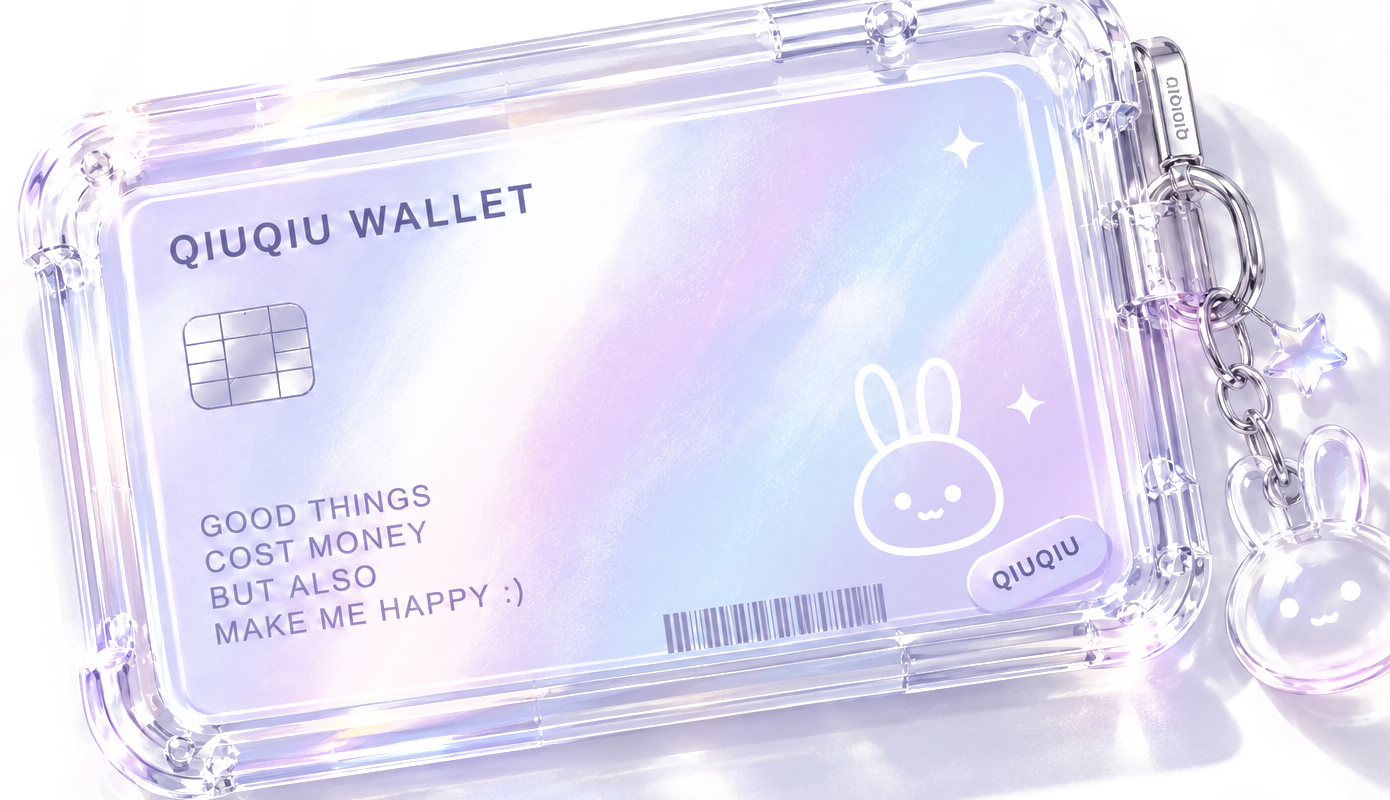
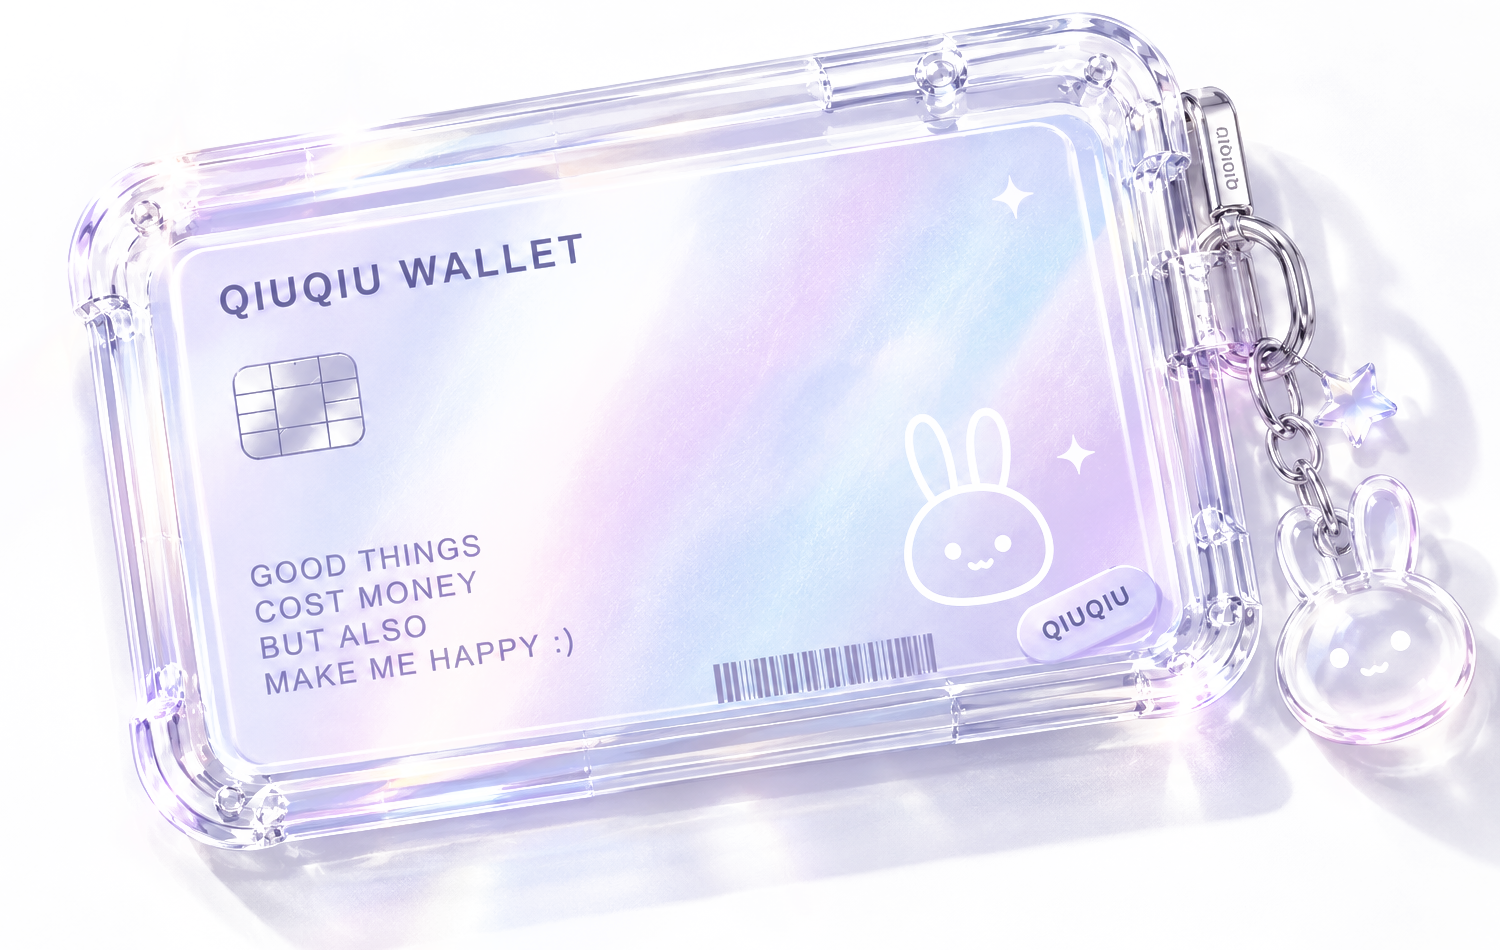
v74.255 记账卡套素材重抠：整块边框和影子都保留
Claude-Session: https://claude.ai/code/session_015zt3JkZdq61T2ShKzLDYS3

diff --git a/index.html b/index.html
@@ -9,7 +9,7 @@
 <meta name="theme-color" content="#ece8e1" />
 <script>document.documentElement.classList.add("fonts-pending");</script>
 <link rel="apple-touch-icon" href="icon-192.png?v=61.52" />
-<link rel="manifest" href="manifest.json?v=74.254" />
+<link rel="manifest" href="manifest.json?v=74.255" />
 <title>ARCHIVE</title>
 <!-- ══ 白屏守卫（v68.99，她 2026-09-16 转来两条：「开屏以后是白屏」「加入到了主屏幕，
      现在没法刷新，抓心挠肝」）══════════════════════════════════════════════
@@ -95,7 +95,7 @@
 <!-- 核心库自托管在仓库 vendor/（不再依赖 CDN，防国内访问 unpkg 抽风时整站白屏） -->
 <script src="vendor/react.production.min.js"></script>
 <script src="vendor/react-dom.production.min.js"></script>
-<script src="vendor/tailwind.js?v=74.254"></script>
+<script src="vendor/tailwind.js?v=74.255"></script>
 <link rel="stylesheet" href="vendor/leaflet.css" />
 <style>
   html, body, #root { height: 100vh; margin: 0; padding: 0; overscroll-behavior: none; background: #ece8e1; }
@@ -380,10 +380,10 @@
 <script src="vendor/supabase.js"></script>
 <script src="js/character-pronoun.js?v=74.220"></script>
 <script src="js/back-guard.js?v=68.29"></script>
-<script src="js/core.js?v=74.254"></script>
+<script src="js/core.js?v=74.255"></script>
 <script src="js/auto-refresh-policy.js?v=62.45"></script>
 <script src="js/auto-gate.js?v=65.03"></script>
-<script src="js/style-presets.js?v=74.254"></script>
+<script src="js/style-presets.js?v=74.255"></script>
 <script src="js/content-boundaries.js?v=65.05"></script>
 <script src="js/world-weather.js?v=65.08"></script>
 <script src="js/reply-pacing.js?v=74.063"></script>
@@ -399,18 +399,18 @@
 <script src="js/offline-continuation.js?v=65.05"></script>
 <script src="js/yanqiu-continuity.js?v=50.20"></script>
 <script src="js/recall-cooling.js?v=2"></script>
-<script src="js/engine.js?v=74.254"></script>
+<script src="js/engine.js?v=74.255"></script>
 <script src="js/credential-vault.js?v=52.41"></script>
 <script src="js/background-generation.js?v=53.78"></script>
-<script src="js/cloud.js?v=74.254"></script>
+<script src="js/cloud.js?v=74.255"></script>
 <script src="js/rescue-console.js?v=53.60"></script>
-<script src="js/vps-codex.js?v=74.254"></script>
+<script src="js/vps-codex.js?v=74.255"></script>
 <script src="js/lounge-entry.js?v=54.42"></script>
 <script src="js/chat-ledger-shadow.js?v=74.065"></script>
 <script src="js/cc-lane.js?v=74.048"></script>
 <script src="js/cc-memory-auto.js?v=51.57"></script>
 <script src="js/reroll-branch.js?v=73.24"></script>
-<script src="js/inner-life-e-tidal-core.js?v=74.254"></script>
+<script src="js/inner-life-e-tidal-core.js?v=74.255"></script>
 <script src="js/inner-life-e-afterglow-shadow.js?v=61.51"></script>
 <script src="js/inner-life-e-tidal-shadow.js?v=51.56"></script>
 <script src="js/recall-shadow.js?v=51.04"></script>
@@ -423,31 +423,31 @@
 <script src="js/context-budget-shadow.js?v=51.52"></script>
 <script src="js/message-branch-shadow.js?v=51.00"></script>
 <script src="js/insight-candidate-shadow.js?v=50.98"></script>
-<script src="js/memory-v2-shadow.js?v=74.254"></script>
-<script src="js/somatic-review-core.js?v=74.254"></script>
+<script src="js/memory-v2-shadow.js?v=74.255"></script>
+<script src="js/somatic-review-core.js?v=74.255"></script>
 <script src="js/shadow-review.js?v=67.86"></script>
 <script src="js/inner-life-promotion-gate.js?v=55.83"></script>
 <script src="js/ears.js?v=50.00"></script>
-<script src="js/somatic-core.js?v=74.254"></script>
+<script src="js/somatic-core.js?v=74.255"></script>
 <script src="js/somatic-shadow.js?v=51.15"></script>
 <script src="js/mood-label.js?v=67.86"></script>
 <script src="js/interaction-clock.js?v=68.10"></script>
 <script src="js/ambient-material.js?v=55.26"></script>
 <script src="js/schedule-clock.js?v=65.37"></script>
-<script src="js/theater.js?v=74.254"></script>
+<script src="js/theater.js?v=74.255"></script>
 <script src="js/impression.js?v=67.98"></script>
-<script src="js/style-lab.js?v=74.254"></script>
+<script src="js/style-lab.js?v=74.255"></script>
 <script src="js/assistant-manual.js?v=74.119"></script>
-<script src="js/assistant.js?v=74.254"></script>
+<script src="js/assistant.js?v=74.255"></script>
 <script src="js/grown-sync.js?v=67.86"></script>
 <script src="js/gaze.js?v=69.18"></script>
 <script src="js/chat-rooms.js?v=74.199"></script>
 <script src="js/font-choice.js?v=71.17"></script>
-<script src="js/theme-studio.js?v=74.254"></script>
+<script src="js/theme-studio.js?v=74.255"></script>
 <script src="js/chat-stamp.js?v=69.15"></script>
-<script src="js/components.js?v=74.254"></script>
+<script src="js/components.js?v=74.255"></script>
     <script src="js/phone-watch.js?v=74.249"></script>
-    <script src="js/phone.js?v=74.254"></script>
+    <script src="js/phone.js?v=74.255"></script>
 <script src="js/mcp.js?v=67.86"></script>
 <script src="js/music-source.js?v=68.15"></script>
 <script src="js/axes.js?v=67.86"></script>
@@ -456,14 +456,14 @@
 <script src="js/radio-ui.js?v=68.06"></script>
 <script src="js/radio-timeline.js?v=67.99"></script>
 <script src="js/radio-timeline-ui.js?v=68.06"></script>
-<script src="js/screens.js?v=74.254"></script>
-<script src="js/theme-studio-ui.js?v=74.254"></script>
+<script src="js/screens.js?v=74.255"></script>
+<script src="js/theme-studio-ui.js?v=74.255"></script>
 <script src="js/study.js?v=74.014"></script>
 <script src="js/dreamjournal.js?v=67.86"></script>
 <script src="js/yanqiu.js?v=67.86"></script>
 <script src="js/yanqiu-cc-tools.js?v=54.42"></script>
 <script src="js/cc-seat.js?v=74.249"></script>
-<script src="js/fanfic.js?v=74.254"></script>
+<script src="js/fanfic.js?v=74.255"></script>
 <script src="js/weekly.js?v=74.032"></script>
 <script src="js/read.js?v=74.047"></script>
 <script src="js/watch.js?v=74.249"></script>
@@ -479,13 +479,13 @@
 <script src="js/capsule.js?v=67.86"></script>
 <script src="js/companion.js?v=74.168"></script>
 <script src="js/pomodoro.js?v=67.86"></script>
-<script src="js/uno-core.js?v=74.254"></script>
+<script src="js/uno-core.js?v=74.255"></script>
 <script src="js/games.js?v=73.24"></script>
 <script src="apps/fairy-garden/rules.js?v=fg-f6f4db1cdeac211e"></script>
 <script src="js/fairy-garden.js?v=74.168"></script>
 <script src="js/trpg.js?v=71.12"></script>
 <script src="js/notify.js?v=66.23"></script>
-<script src="js/codex.js?v=74.254"></script>
+<script src="js/codex.js?v=74.255"></script>
 <script src="js/heart.js?v=69.07"></script>
 <script src="js/dongnian.js?v=74.001"></script>
 <script src="js/inner-life-a-shadow.js?v=64.74"></script>
@@ -495,9 +495,9 @@
      （何时入睡、REM 窗到没到）。v64.34 我把这两行当成死代码删掉，D 就跟着停了，
      而且不报错、不留痕迹：梦境里「角色做的梦」从那天起一条新的都不会再有。
      ⚠要删 C 之前，先看 js/app.js 里那个 `if (window.SleepShadow)`——D 在它里面。 -->
-<script src="js/inner-life-c-sleep-core.js?v=74.254"></script>
+<script src="js/inner-life-c-sleep-core.js?v=74.255"></script>
 <script src="js/inner-life-c-sleep-shadow.js?v=74.001"></script>
-<script src="js/dream-loop-core.js?v=74.254"></script>
+<script src="js/dream-loop-core.js?v=74.255"></script>
 <script src="js/dream-loop-shadow.js?v=74.001"></script>
 <script src="js/toy.js?v=67.86"></script>
 <script src="vendor/leaflet.js"></script>
@@ -519,7 +519,7 @@
 <script src="js/garden.js?v=67.86"></script>
 <script src="js/ifroom.js?v=67.86"></script>
 <script src="js/makeup.js?v=67.86"></script>
-<script src="js/app.js?v=74.254"></script>
+<script src="js/app.js?v=74.255"></script>
 <script>
   // 注册 Service Worker（锁屏通知用）；点通知回来时通知 app 打开对应聊天
   if ("serviceWorker" in navigator) {

diff --git a/rescue.html b/rescue.html
@@ -26,7 +26,7 @@
     // 对【主屏幕实际启动的精确 URL】做 reload，并核验拿到的正文真是目标版本。
     // 目标版本只写这一处。以前散在六个地方，其中两处还是转义过的正则（53\.26），
     // 逐版 bump 的 sed 匹配不到字面量，于是它们悄悄停在旧版号上，救援页就永远校验失败。
-  const TARGET="74.254";
+  const TARGET="74.255";
     const indexRes=await fetch("./index.html",{cache:"reload",headers:{"Cache-Control":"no-cache"}});
     const indexText=await indexRes.text();
     if (!indexRes.ok || indexText.indexOf("app.js?v="+TARGET)<0) throw new Error("首页仍不是 v"+TARGET);

diff --git a/js/app.js b/js/app.js
@@ -16,7 +16,7 @@ const clampFx = (v, dflt, max) => {
   if (!Number.isFinite(n)) return dflt;
   return Math.max(0, Math.min(typeof max === "number" ? max : 60, Math.round(n)));
 };
-const APP_VERSION = "v74.254";
+const APP_VERSION = "v74.255";
 // 失败提示属于 UI 诊断，不属于任何角色亲历。显式标记照顾新消息，固定文案识别兼容旧记录。
 const contextAllowsMessage = m => !(window.ChatContextFilter && window.ChatContextFilter.isExcluded(m));
 // 论坛常驻网友：轻量公开身份，不是完整角色，也不读取任何人的私聊/记忆。
